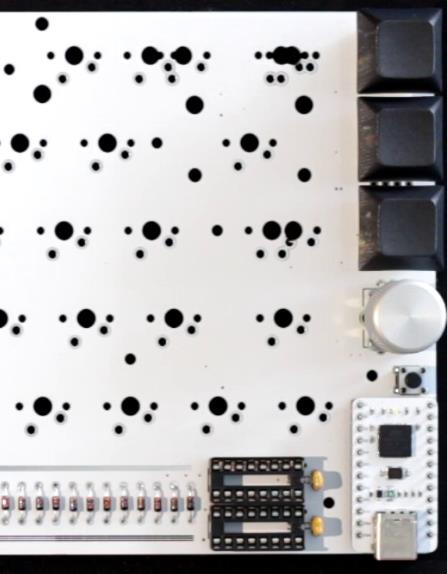
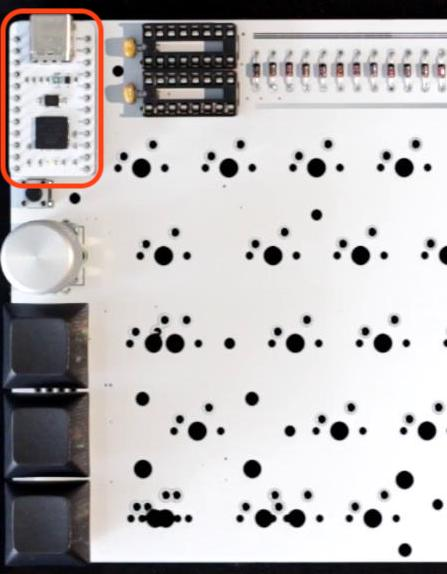
Add info on MCU soldering

diff --git a/nibble/build_guide_en.md b/nibble/build_guide_en.md
@@ -164,9 +164,9 @@ It&#39;s highly recommended that you flash the MCU (Bit-C or Pro Micro) before s
 
 ## 7. Solder MCU
 
-![](https://github.com/nullbitsco/docs/raw/main/nibble/build_guide_img/image040.jpg)
+![](https://github.com/nullbitsco/docs/raw/main/nibble/build_guide_img/image029.jpg)
 
-Use header pins to solder the MCU to the keybpard. Fit and solder the BIT-C or Pro Micro MCU as shown below using 0.1" male header pins. After soldering, clean with rubbing alcohol and use the snips to clip the pins as close to the PCB as possible.
+Use header pins to solder the MCU to the keyboard. Fit and solder the BIT-C or Pro Micro MCU as shown below using 0.1" male header pins. Solder both the MCU on the top and the bottom (both ends of the header pins). After soldering, clean with rubbing alcohol and use the snips to clip the pins as close to the PCB as possible.
 
 ![](https://github.com/nullbitsco/docs/raw/main/nibble/build_guide_img/image028.jpg)
 
